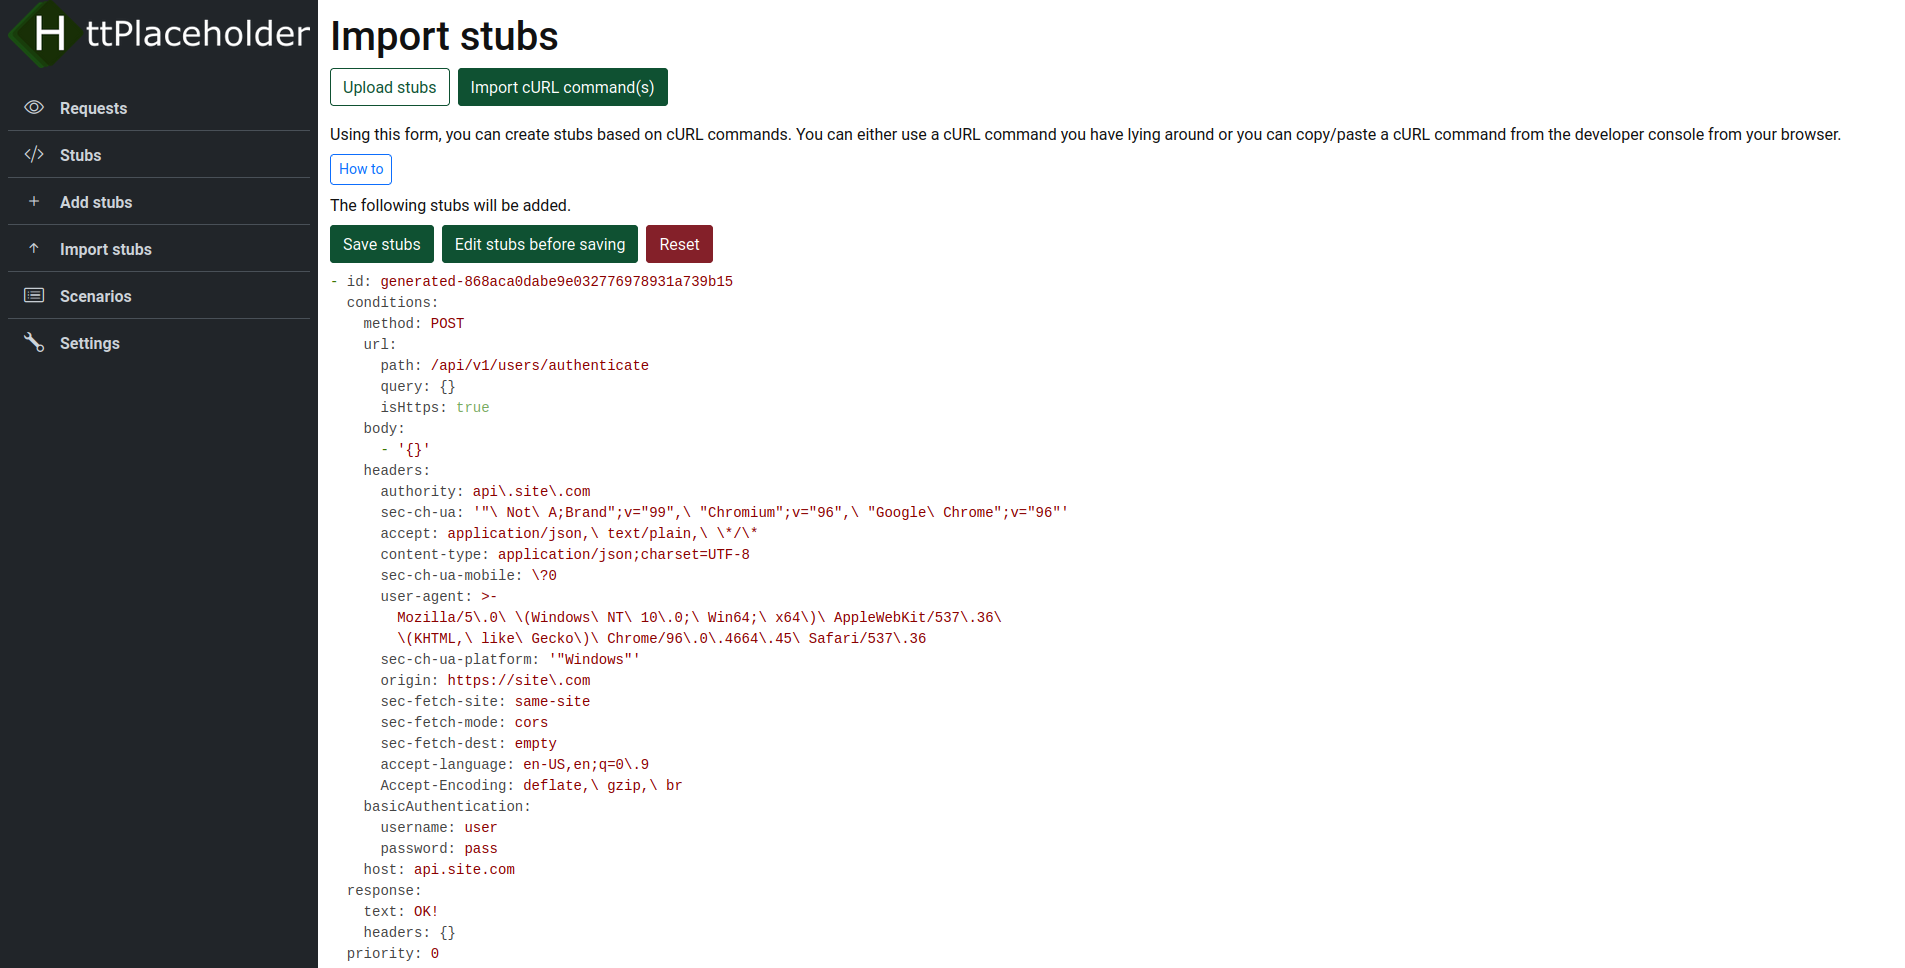
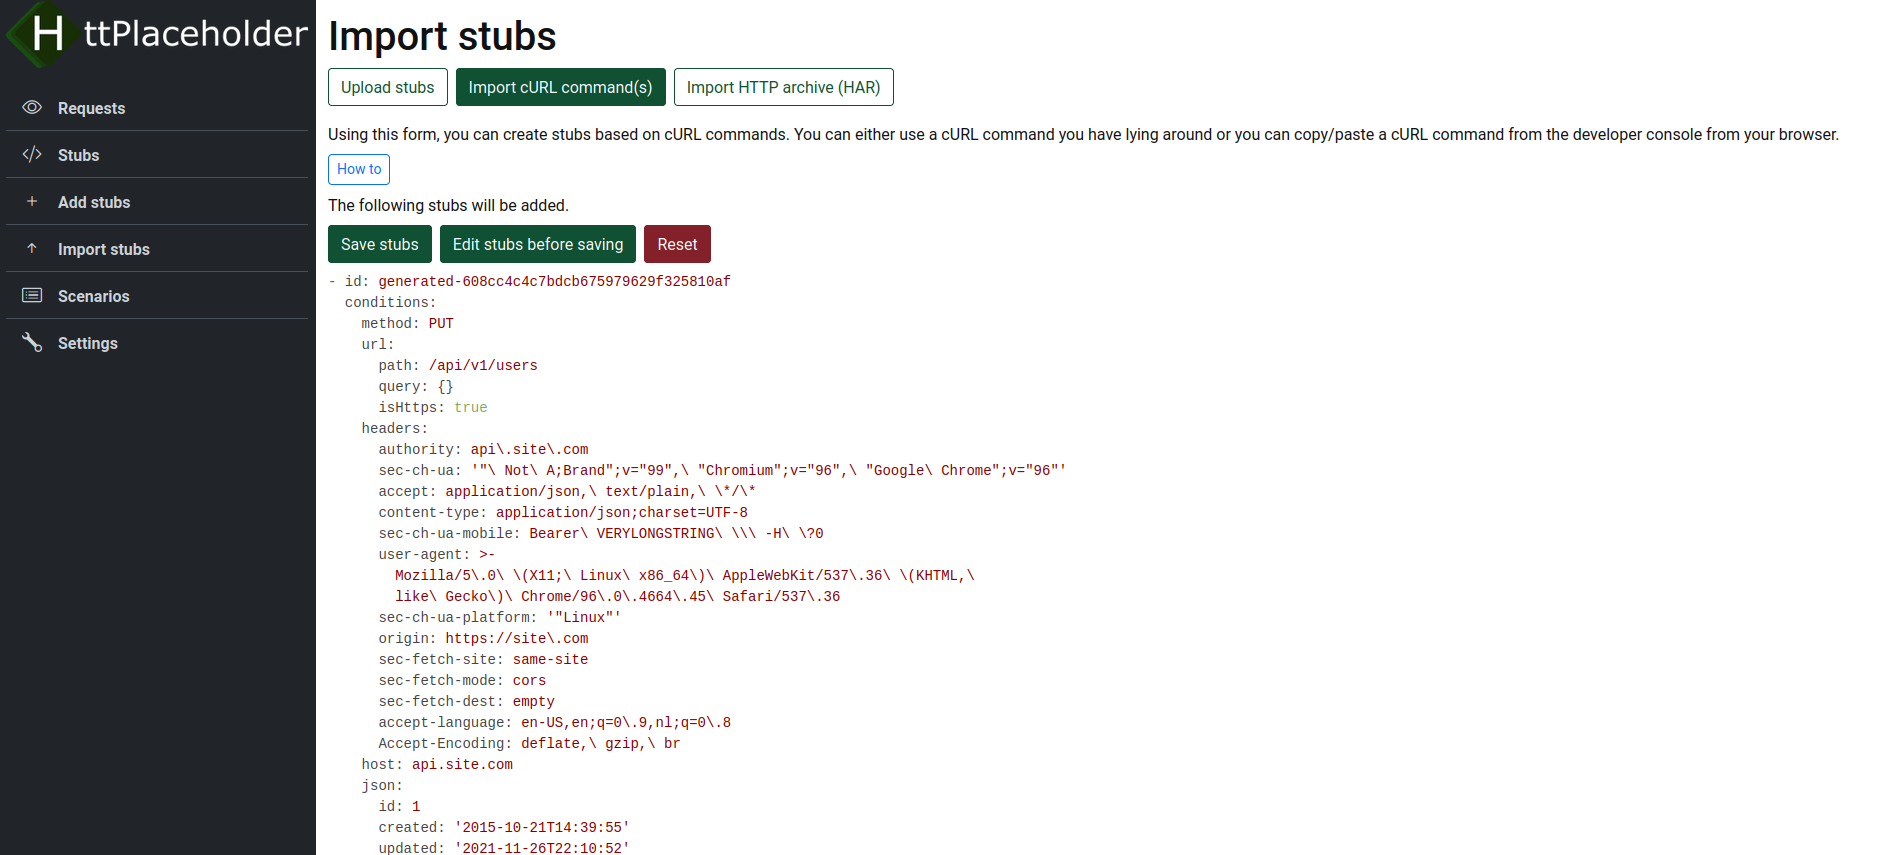
Updated docs

Changed region(s): [[0.0, 0.0, 0.9611, 1.0], [0.031, 0.3953, 0.062, 0.4257]]

diff --git a/gui/src/components/stub/ImportHar.vue b/gui/src/components/stub/ImportHar.vue
@@ -38,10 +38,7 @@
       </div>
       <div class="col-md-4">
         <img src="@/assets/har_copy_chrome.png" />
-        <em
-          >Example in Chrome. In Chrome, you can either select "Copy as cURL" or
-          "Copy all as cURL".
-        </em>
+        <em>Example in Chrome. </em>
       </div>
       <div class="col-md-12 mb-2 mt-2">
         <button class="btn btn-outline-primary btn-sm" @click="insertExample">

diff --git a/docs/docs.md b/docs/docs.md
@@ -2067,6 +2067,35 @@ _Copy as cURL in Firefox on Windows_
 
 _Copy as cURL in Chrome on Windows_
 
+### Import HTTP archive (HAR)
+
+On this page, you can import an HTTP archive (or HAR for short) to create stubs based on it. An HTTP archive file is a JSON file that is a representation of a set of requests with its corresponding response. Most modern browsers allow you to copy or download the HAR file.
+
+![](img/ui/stub_har_form.png)
+_On this form, you can import a HAR file by pasting the contents of the HAR._
+
+![](img/ui/stub_har_form_review.png)
+_When pressing the "Import HTTP archive" button, you will see the stubs that will be added. You will have the option to directly save the stubs, edit the stubs before saving or resetting and starting over._
+
+#### Retrieving HAR from browser
+
+Retrieving the HTTP archive from browsers is easy and supported in all major browsers (e.g. Firefox, Chrome, Edge etc.). In general, you open the developer console of your browser, go to the "Network" tab and select the command where you would like to copy the cURl command for.
+
+**Firefox**
+
+![](img/ui/har_copy_firefox.png)
+
+_In Firefox, you can right click on the request in the "Network" tab
+and select "Copy all as HAR"._
+
+**Chrome**
+
+![](img/ui/har_copy_chrome.png)
+
+_In Chrome, you can also click "Copy all as HAR", but this does not
+copy the response contents. To get the full responses, you need to
+click "Save all as HAR with content" to get the full HAR._
+
 ## Add stub(s) form
 
 You can add stubs in one of three ways: either by filling in the stub YAML, by filling in a form or by uploading a YAML file from your PC.
